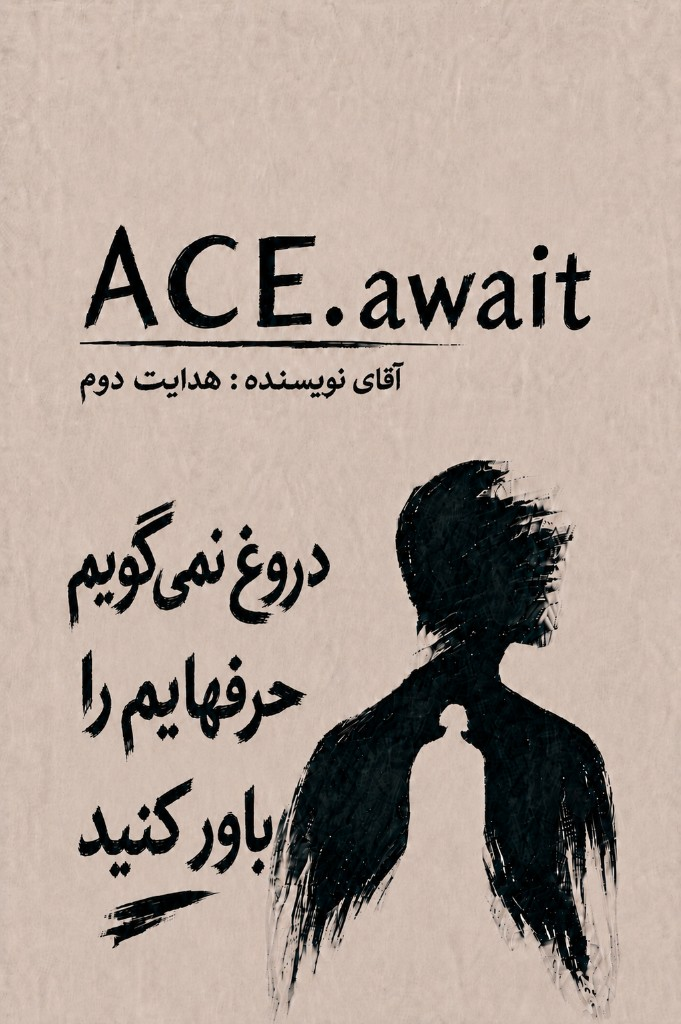
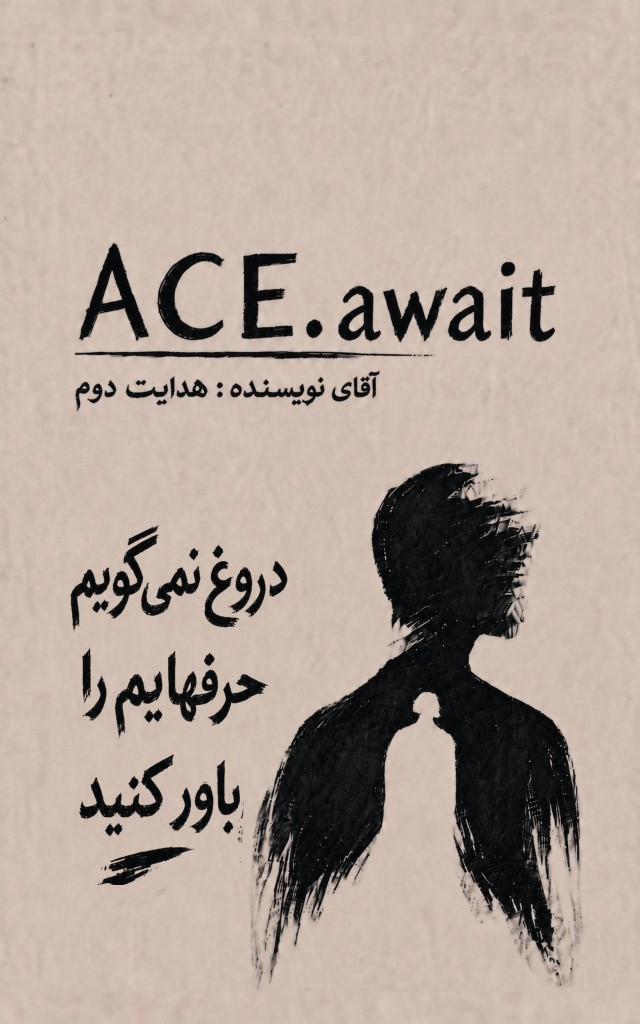
Update the Persian front cover artwork.
Refresh cover-back-fa.png and bump asset cache versions so /fa shows the new design.

diff --git a/fa/index.html b/fa/index.html
@@ -36,7 +36,7 @@
   <meta property="og:title" content="ACE.await is a philosophical literary thriller">
   <meta property="og:description" content="دروغ نمیگویم، حرفهایم را باور کنید. آگاهی آینده را شکل میدهد—نه هوش مصنوعی. یک تریلر ادبی فلسفی دربارهٔ نویسندگان تو در تو و بازی ACE — عاملیت، پیوند، مبادله.">
   <meta property="og:url" content="https://aceconscious.studio/">
-  <meta property="og:image" content="https://aceconscious.studio/assets/cover-back-fa.png">
+  <meta property="og:image" content="https://aceconscious.studio/assets/cover-back-fa.png?v=20260719a">
   <meta property="og:image:alt" content="جلد کتاب ACE.await با جملهٔ «دروغ نمیگویم، حرفهایم را باور کنید»">
   <meta property="og:type" content="book">
   <meta property="og:locale" content="fa_IR">
@@ -49,7 +49,7 @@
   <meta name="twitter:card" content="summary_large_image">
   <meta name="twitter:title" content="ACE.await is a philosophical literary thriller">
   <meta name="twitter:description" content="دروغ نمیگویم، حرفهایم را باور کنید. یک تریلر متافیکشنال دربارهٔ آگاهی، هوش مصنوعی و بازی ACE. فصل نمونه رایگان در دسترس است.">
-  <meta name="twitter:image" content="https://aceconscious.studio/assets/cover-back-fa.png">
+  <meta name="twitter:image" content="https://aceconscious.studio/assets/cover-back-fa.png?v=20260719a">
   <title>ACE.await is a philosophical literary thriller | Ace Conscious Studio</title>
   <script type="application/ld+json" id="structured-data">
   {
@@ -88,7 +88,7 @@
         },
         "publisher": { "@id": "https://aceconscious.studio/#organization" },
         "url": "https://aceconscious.studio/",
-        "image": "https://aceconscious.studio/assets/cover-back-fa.png",
+        "image": "https://aceconscious.studio/assets/cover-back-fa.png?v=20260719a",
         "bookFormat": "https://schema.org/EBook",
         "inLanguage": "en",
         "datePublished": "2026",
@@ -207,7 +207,7 @@
                 <div class="book-cover__face book-cover__face--front">
                   <img
                     class="hero__cover"
-                    src="/assets/cover-back-fa.png?v=20260718f"
+                    src="/assets/cover-back-fa.png?v=20260719a"
                     data-i18n-attr="alt:hero.coverAlt"
                     alt="جلد کتاب ACE.await با جملهٔ «دروغ نمیگویم، حرفهایم را باور کنید» — تریلر فلسفی هوش مصنوعی دربارهٔ آگاهی و متافیکشن"
                     width="681"
@@ -754,7 +754,7 @@
     </div>
   </footer>
 
-  <script src="/js/asset-version.js?v=20260718f"></script>
+  <script src="/js/asset-version.js?v=20260719a"></script>
   <script src="/js/i18n.js?v=20260718f" defer></script>
   <script src="/js/cover-flip.js?v=20260718f" defer></script>
   <script src="/js/chapter-reader.js?v=20260718f" defer></script>

diff --git a/404.html b/404.html
@@ -651,7 +651,7 @@
     </div>
   </footer>
 
-  <script src="/js/asset-version.js?v=20260718f"></script>
+  <script src="/js/asset-version.js?v=20260719a"></script>
   <script src="/js/i18n.js?v=20260718f" defer></script>
   <script src="/js/cover-flip.js?v=20260718f" defer></script>
   <script src="/js/main.js?v=20260718f" defer></script>

diff --git a/de/index.html b/de/index.html
@@ -749,7 +749,7 @@
     </div>
   </footer>
 
-  <script src="/js/asset-version.js?v=20260718f"></script>
+  <script src="/js/asset-version.js?v=20260719a"></script>
   <script src="/js/i18n.js?v=20260718f" defer></script>
   <script src="/js/cover-flip.js?v=20260718f" defer></script>
   <script src="/js/chapter-reader.js?v=20260718f" defer></script>

diff --git a/index.html b/index.html
@@ -749,7 +749,7 @@
     </div>
   </footer>
 
-  <script src="/js/asset-version.js?v=20260718f"></script>
+  <script src="/js/asset-version.js?v=20260719a"></script>
   <script src="/js/i18n.js?v=20260718f" defer></script>
   <script src="/js/cover-flip.js?v=20260718f" defer></script>
   <script src="/js/chapter-reader.js?v=20260718f" defer></script>

diff --git a/js/asset-version.js b/js/asset-version.js
@@ -1,7 +1,7 @@
 /** Bump ASSET_VERSION whenever cover/art assets change so mobile caches refresh. */
 (function () {
   "use strict";
-  window.ACE_ASSET_VERSION = "20260718f";
+  window.ACE_ASSET_VERSION = "20260719a";
 
   window.aceAssetUrl = function aceAssetUrl(path) {
     if (!path) return path;